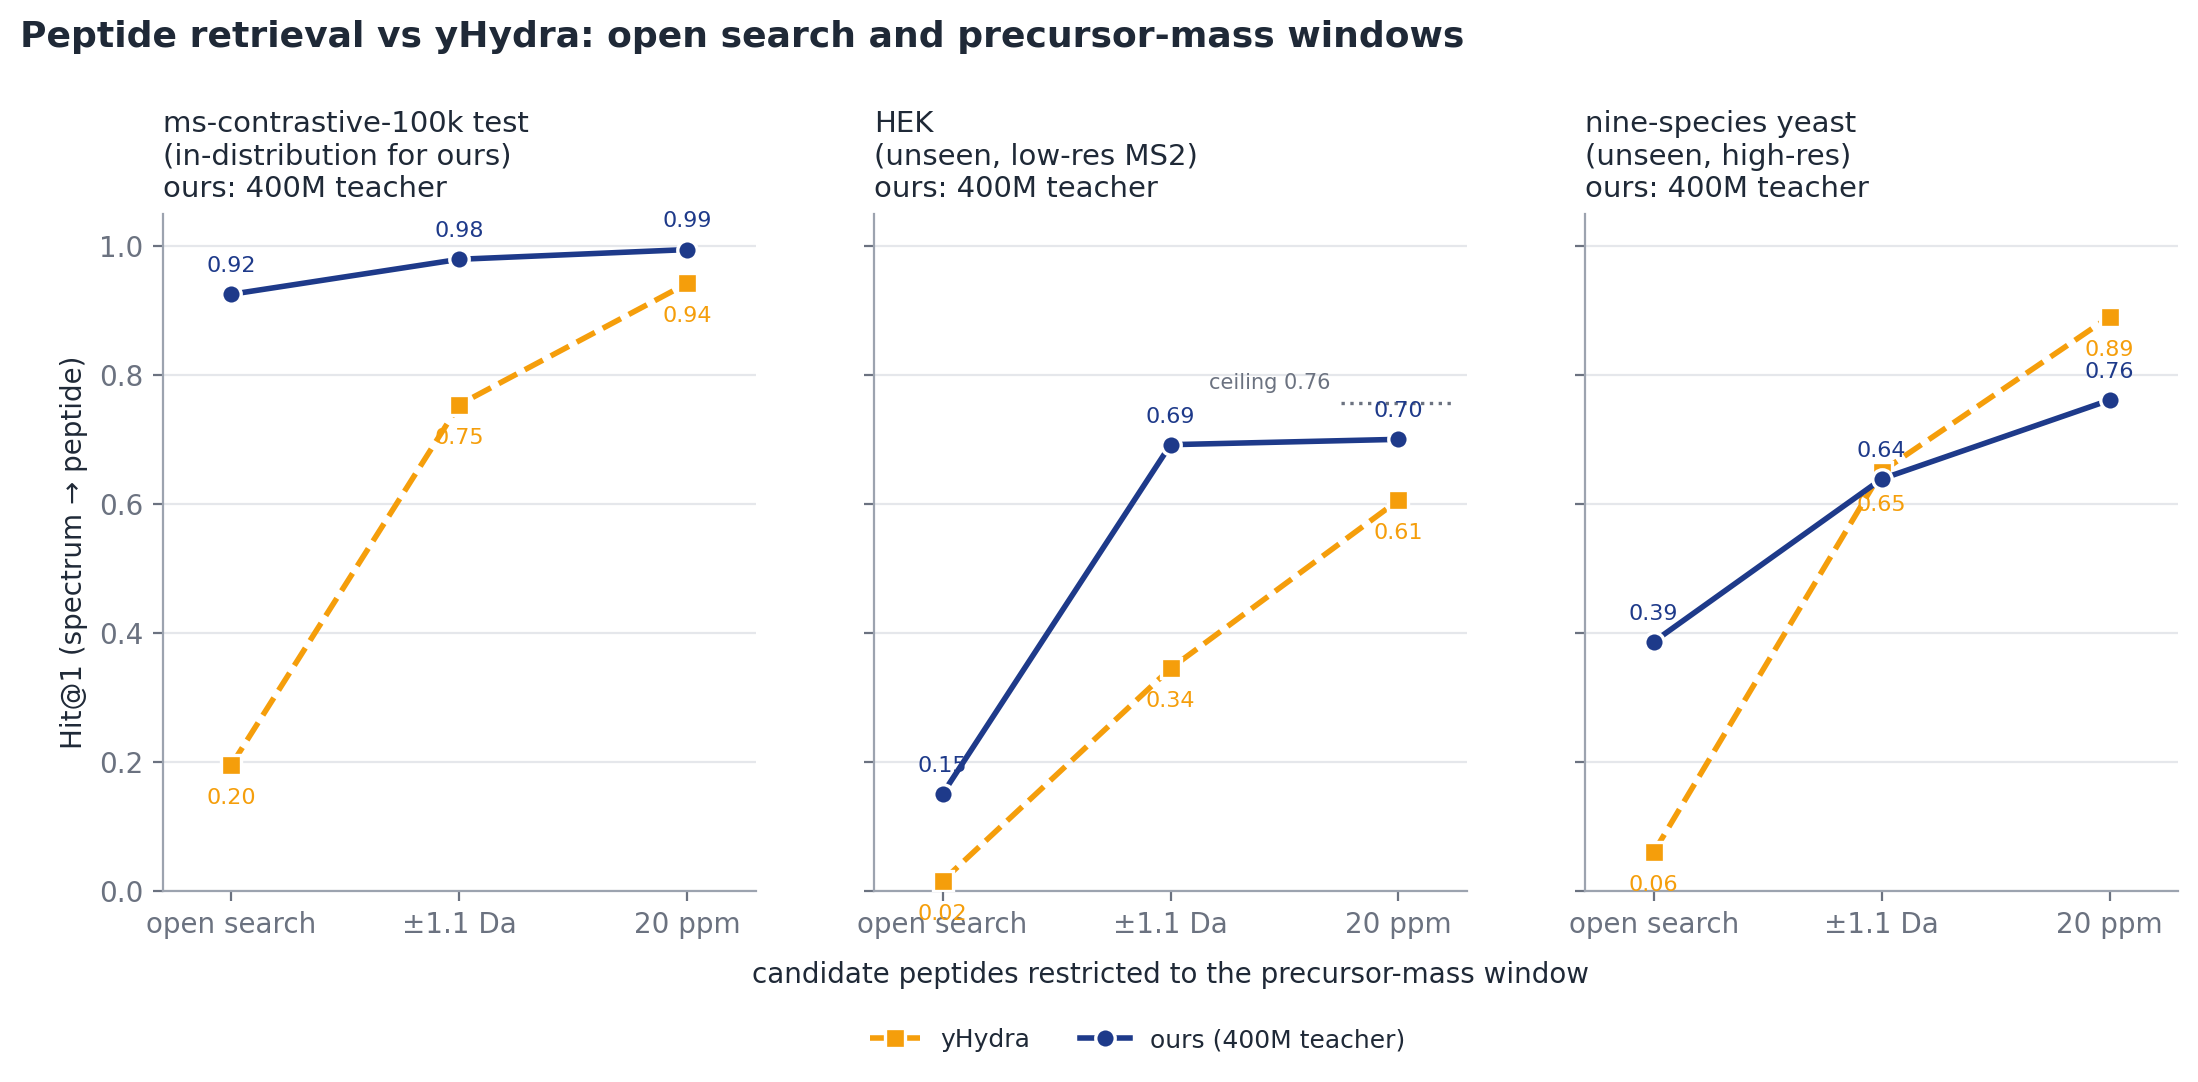
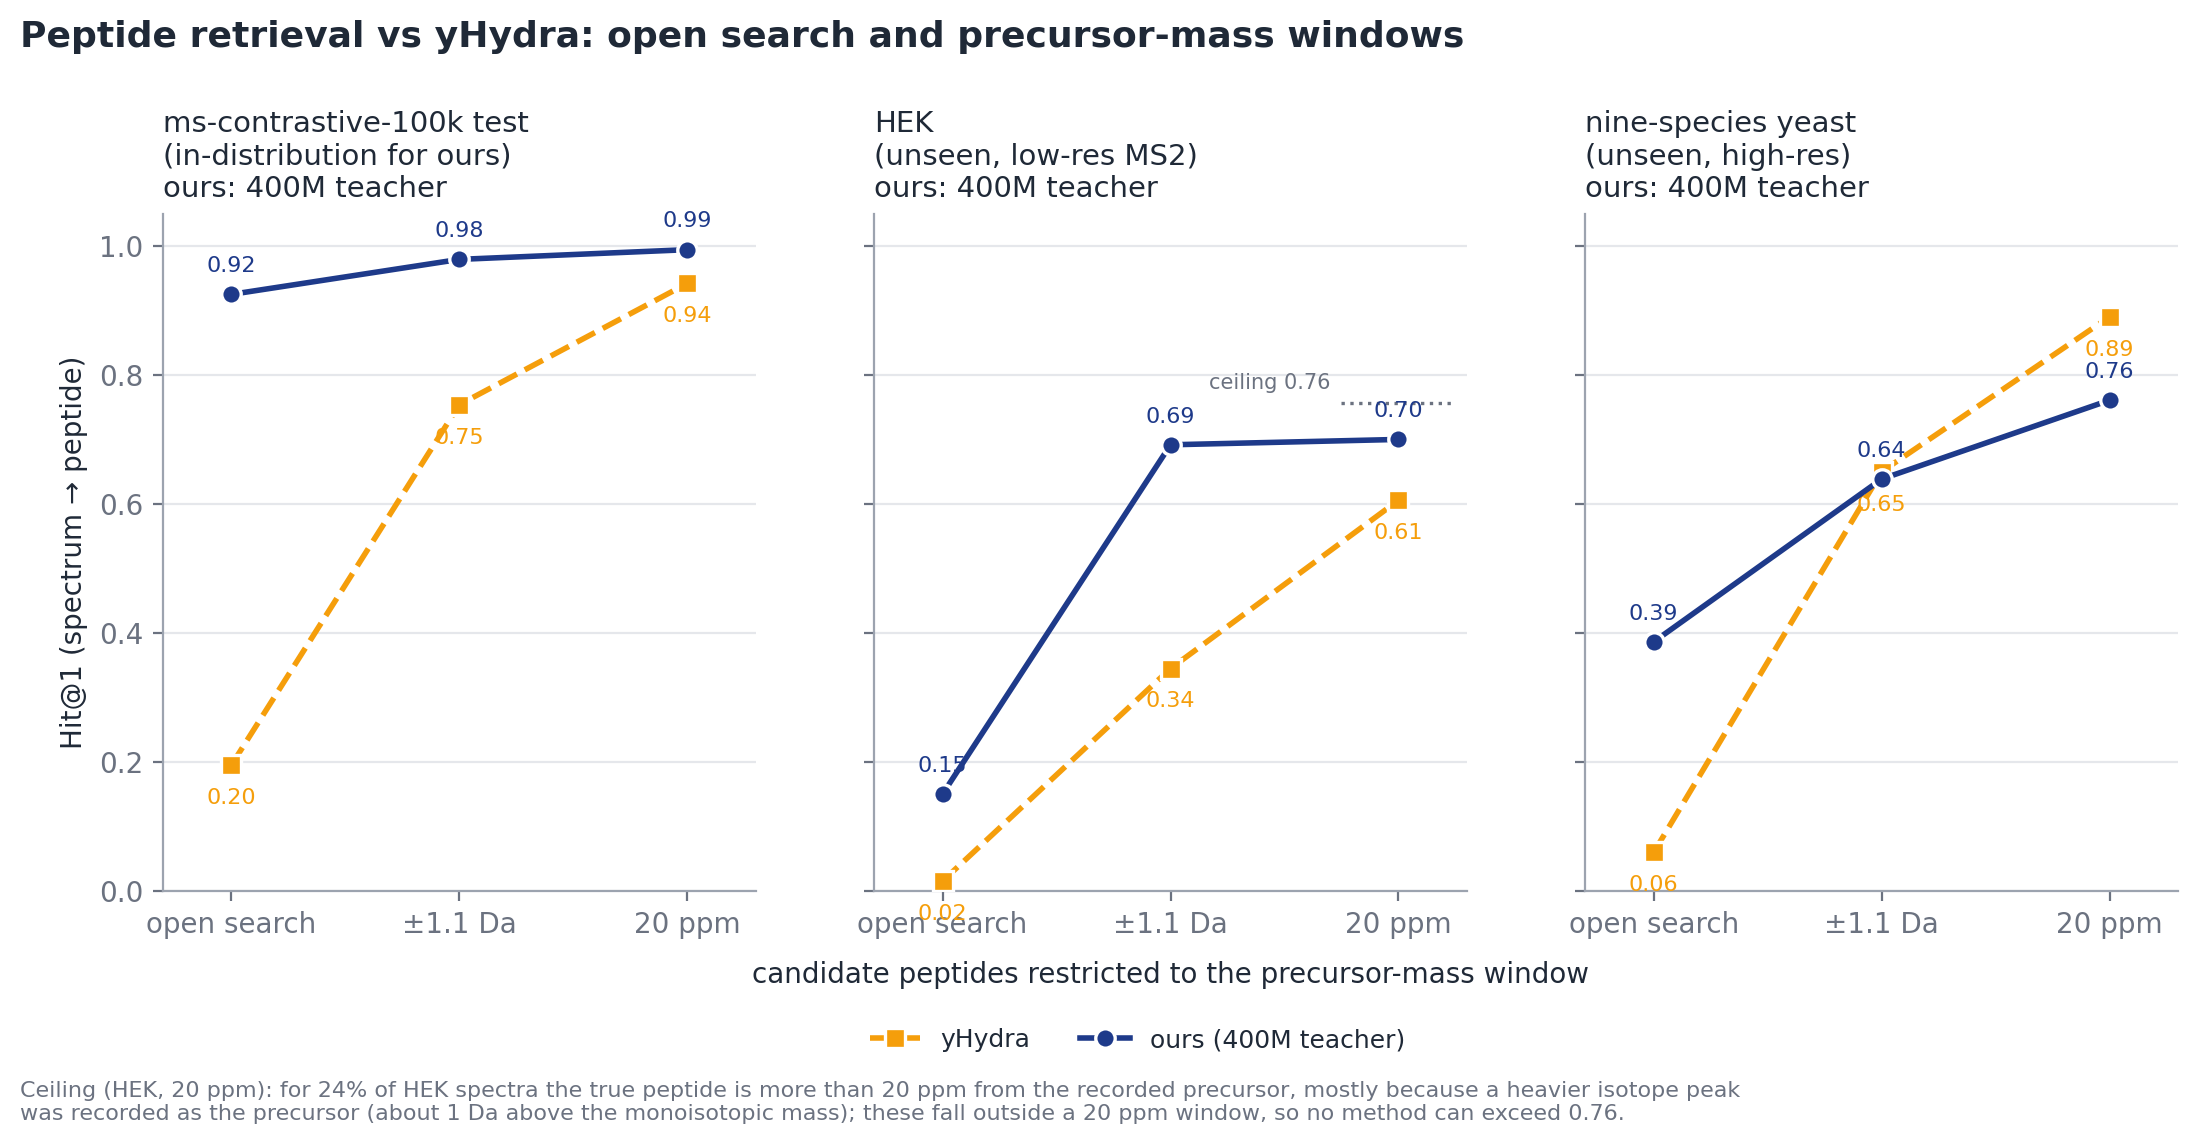
A_windows: ceiling footnote (24% of HEK true peptides >20 ppm, mainly precursor isotope mis-assignment); README note with isotope counts
Claude-Session: https://claude.ai/code/session_01ATgkXx1oRRqvzB3G8wYeta

diff --git a/sweeps/package_alignment.py b/sweeps/package_alignment.py
@@ -137,6 +137,7 @@ def fig_windows(rows, fixed=None, out="A_windows.png"):
         fig.legend(handles=[Line2D([], [], color=c, marker=mk, ls=ls, lw=2, ms=7, mec="white", mew=1.2)
                             for _, c, mk, ls in leg], labels=[l for l, *_ in leg], frameon=False,
                    fontsize=9, ncol=3, loc="upper center", bbox_to_anchor=(0.5, -0.02))
+        fig.text(0.07, -0.15, "Ceiling (HEK, 20 ppm): for 24% of HEK spectra the true peptide is more than 20 ppm from the recorded precursor, mostly because a heavier isotope peak\nwas recorded as the precursor (about 1 Da above the monoisotopic mass); these fall outside a 20 ppm window, so no method can exceed 0.76.", fontsize=8, color=MUTED)
         fig.savefig(FIG / out); plt.close(fig)
     return plotted
 

diff --git a/paper/experiments/peptide_embedding/plot_peptide_embedding.py b/paper/experiments/peptide_embedding/plot_peptide_embedding.py
@@ -61,6 +61,7 @@ def windows():
         fig.legend(handles=[Line2D([], [], color=c, marker=mk, ls=ls, lw=2, ms=7, mec="white", mew=1.2)
                             for _, c, mk, ls in LINES], labels=[l for l, *_ in LINES], frameon=False,
                    fontsize=9, ncol=2, loc="upper center", bbox_to_anchor=(0.5, -0.02))
+        fig.text(0.07, -0.15, "Ceiling (HEK, 20 ppm): for 24% of HEK spectra the true peptide is more than 20 ppm from the recorded precursor, mostly because a heavier isotope peak\nwas recorded as the precursor (about 1 Da above the monoisotopic mass); these fall outside a 20 ppm window, so no method can exceed 0.76.", fontsize=8, color=MUTED)
         fig.savefig(HERE / "A_windows.png"); plt.close(fig)
 
 

diff --git a/paper/experiments/peptide_embedding/README.md b/paper/experiments/peptide_embedding/README.md
@@ -34,8 +34,11 @@ Candidates can be restricted to those whose mass matches the spectrum's precurso
 - "ours" is our best evaluated model on each dataset, chosen on these results; the per-row model is in
   the CSV (`method`, `teacher`, `job`).
 - **Ceiling (HEK, 20 ppm)**: for 24% of HEK spectra the true peptide is more than 20 ppm from the recorded
-  precursor mass, so it is excluded from the candidate list before scoring; no method can exceed 0.76.
-  The other datasets have no such cases.
+  precursor mass, so it is excluded from the candidate list before scoring and no method can exceed 0.76.
+  The main cause is precursor isotope mis-assignment: the instrument recorded a heavier isotope peak as the
+  precursor, about 1.003 Da above the monoisotopic mass (among confident HEK identifications of run
+  HEK-0628-5, 14.2% are +1 isotope, 1.9% +2 and 0.8% -1). Search engines allow for this with an
+  isotope-error setting; a strict 20 ppm window does not. The other datasets have no such cases.
 
 | dataset | window | yHydra | ours |
 |---|---|---|---|
